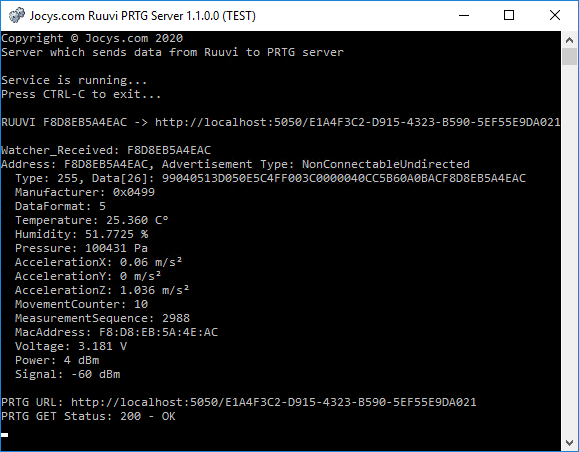
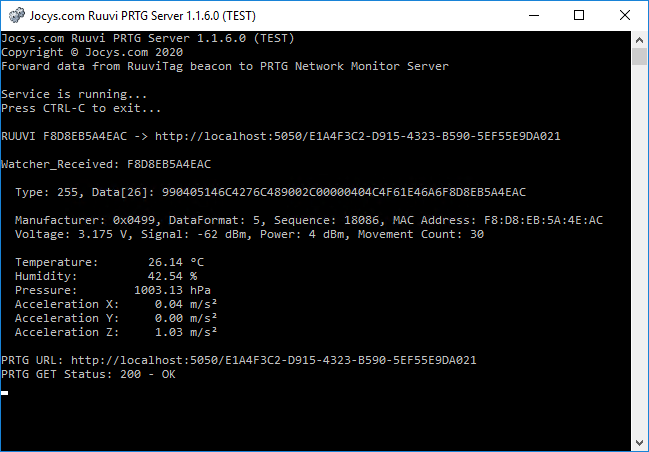
Server data display updates.

diff --git a/PRTG.Server/Common/RuuviPrtgService.cs b/PRTG.Server/Common/RuuviPrtgService.cs
@@ -2,6 +2,7 @@
 using System;
 using System.Collections.Generic;
 using System.Configuration;
+using System.Data;
 using System.Linq;
 using System.Text;
 using Windows.Devices.Bluetooth.Advertisement;
@@ -27,7 +28,7 @@ namespace JocysCom.Ruuvi.PRTG.Server
 		public void InitStart()
 		{
 			var prefix = "Ruuvi_";
-			var ruuviKeys = ConfigurationManager.AppSettings.AllKeys.Where(x=>x.StartsWith(prefix)).ToList();
+			var ruuviKeys = ConfigurationManager.AppSettings.AllKeys.Where(x => x.StartsWith(prefix)).ToList();
 			foreach (var key in ruuviKeys)
 			{
 				var ruuviMac = key.Substring(prefix.Length);
@@ -62,7 +63,8 @@ namespace JocysCom.Ruuvi.PRTG.Server
 					return;
 				var ruuviUrl = new Uri(RuuviPrtgMaps[ruuviMac]);
 				RuuviData data = null;
-				Console.WriteLine("Address: {0}, Advertisement Type: {1}", ruuviMac, args.AdvertisementType);
+				Console.WriteLine();
+				//Console.WriteLine("Address: {0}, Advertisement Type: {1}", ruuviMac, args.AdvertisementType);
 				for (int i = 0; i < args.Advertisement.ManufacturerData.Count; i++)
 				{
 					var md = args.Advertisement.ManufacturerData[i];
@@ -103,21 +105,18 @@ namespace JocysCom.Ruuvi.PRTG.Server
 				{
 					data.RawSignalStrengthInDBm = args.RawSignalStrengthInDBm;
 					var sb = new StringBuilder();
-					sb.AppendFormat("  Manufacturer: 0x{0:X4}\r\n", data.Manufacturer);
-					sb.AppendFormat("  DataFormat: {0}\r\n", data.DataFormat);
-					sb.AppendFormat("  Temperature: {0} C°\r\n", data.Temperature);
-					sb.AppendFormat("  Humidity: {0} %\r\n", data.Humidity);
-					sb.AppendFormat("  Pressure: {0} Pa\r\n", data.Pressure);
-					sb.AppendFormat("  AccelerationX: {0} m/s²\r\n", data.AccelerationX);
-					sb.AppendFormat("  AccelerationY: {0} m/s²\r\n", data.AccelerationY);
-					sb.AppendFormat("  AccelerationZ: {0} m/s²\r\n", data.AccelerationZ);
-					sb.AppendFormat("  MovementCounter: {0}\r\n", data.MovementCounter);
-					sb.AppendFormat("  MeasurementSequence: {0}\r\n", data.MeasurementSequence);
-					//sb.AppendFormat("  MacAddress: {0}\r\n", data.MacAddress);
-					sb.AppendFormat("  MacAddress: {0}\r\n", data.MacAddressString);
-					sb.AppendFormat("  Voltage: {0} V\r\n", data.Voltage);
-					sb.AppendFormat("  Power: {0} dBm\r\n", data.Power);
-					sb.AppendFormat("  Signal: {0} dBm\r\n", data.RawSignalStrengthInDBm);
+					sb.AppendLine();
+					sb.AppendFormat("  Manufacturer: 0x{0:X4}, DataFormat: {1}, Sequence: {2}, MAC Address: {3}\r\n",
+						data.Manufacturer, data.DataFormat, data.MeasurementSequence, data.MacAddressString);
+					sb.AppendFormat("  Voltage: {0:0.000} V, Signal: {1} dBm, Power: {2} dBm, Movement Count: {3}\r\n",
+						data.Voltage, data.RawSignalStrengthInDBm, data.Power, data.MovementCounter);
+					sb.AppendLine();
+					sb.AppendFormat("  Temperature:    {0,8:0.00} °C\r\n", data.Temperature);
+					sb.AppendFormat("  Humidity:       {0,8:0.00} %\r\n", data.Humidity);
+					sb.AppendFormat("  Pressure:       {0,8:0.00} hPa\r\n", data.Pressure / 100m);
+					sb.AppendFormat("  Acceleration X: {0,8:0.00} m/s²\r\n", data.AccelerationX);
+					sb.AppendFormat("  Acceleration Y: {0,8:0.00} m/s²\r\n", data.AccelerationY);
+					sb.AppendFormat("  Acceleration Z: {0,8:0.00} m/s²\r\n", data.AccelerationZ);
 					Console.WriteLine(sb.ToString());
 				}
 				var identificationToken = new Guid("E1A4F3C2-D915-4323-B590-5EF55E9DA021");

diff --git a/PRTG.Server/Properties/AssemblyInfo.cs b/PRTG.Server/Properties/AssemblyInfo.cs
@@ -6,7 +6,7 @@ using System.Runtime.InteropServices;
 // set of attributes. Change these attribute values to modify the information
 // associated with an assembly.
 [assembly: AssemblyTitle("Jocys.com Ruuvi PRTG Server")]
-[assembly: AssemblyDescription("Server which sends data from Ruuvi to PRTG server")]
+[assembly: AssemblyDescription("Forward data from RuuviTag beacon to PRTG Network Monitor Server")]
 [assembly: AssemblyConfiguration("")]
 [assembly: AssemblyCompany("Jocys.com")]
 [assembly: AssemblyProduct("Ruuvi PRTG Server")]
@@ -32,5 +32,5 @@ using System.Runtime.InteropServices;
 // You can specify all the values or you can default the Build and Revision Numbers
 // by using the '*' as shown below:
 // [assembly: AssemblyVersion("1.0.*")]
-[assembly: AssemblyVersion("1.1.0.0")]
-[assembly: AssemblyFileVersion("1.1.0.0")]
+[assembly: AssemblyVersion("1.1.6.0")]
+[assembly: AssemblyFileVersion("1.1.6.0")]

diff --git a/PRTG.Server/Common/AppHelper.cs b/PRTG.Server/Common/AppHelper.cs
@@ -19,7 +19,7 @@ namespace JocysCom.Ruuvi.PRTG.Server
 				{
 					result = new result[]
 					{
-						 new result(nameof(RuuviData.Temperature), (float)data.Temperature, "C°", 2),
+						 new result(nameof(RuuviData.Temperature), (float)data.Temperature, "°C", 2),
 						 new result(nameof(RuuviData.Humidity), (float)data.Humidity, "%", 2),
 						 new result(nameof(RuuviData.Pressure), (float)data.Pressure, "Pa"),
 						 new result(nameof(RuuviData.AccelerationX), (float)data.AccelerationX, "m/s²"),
